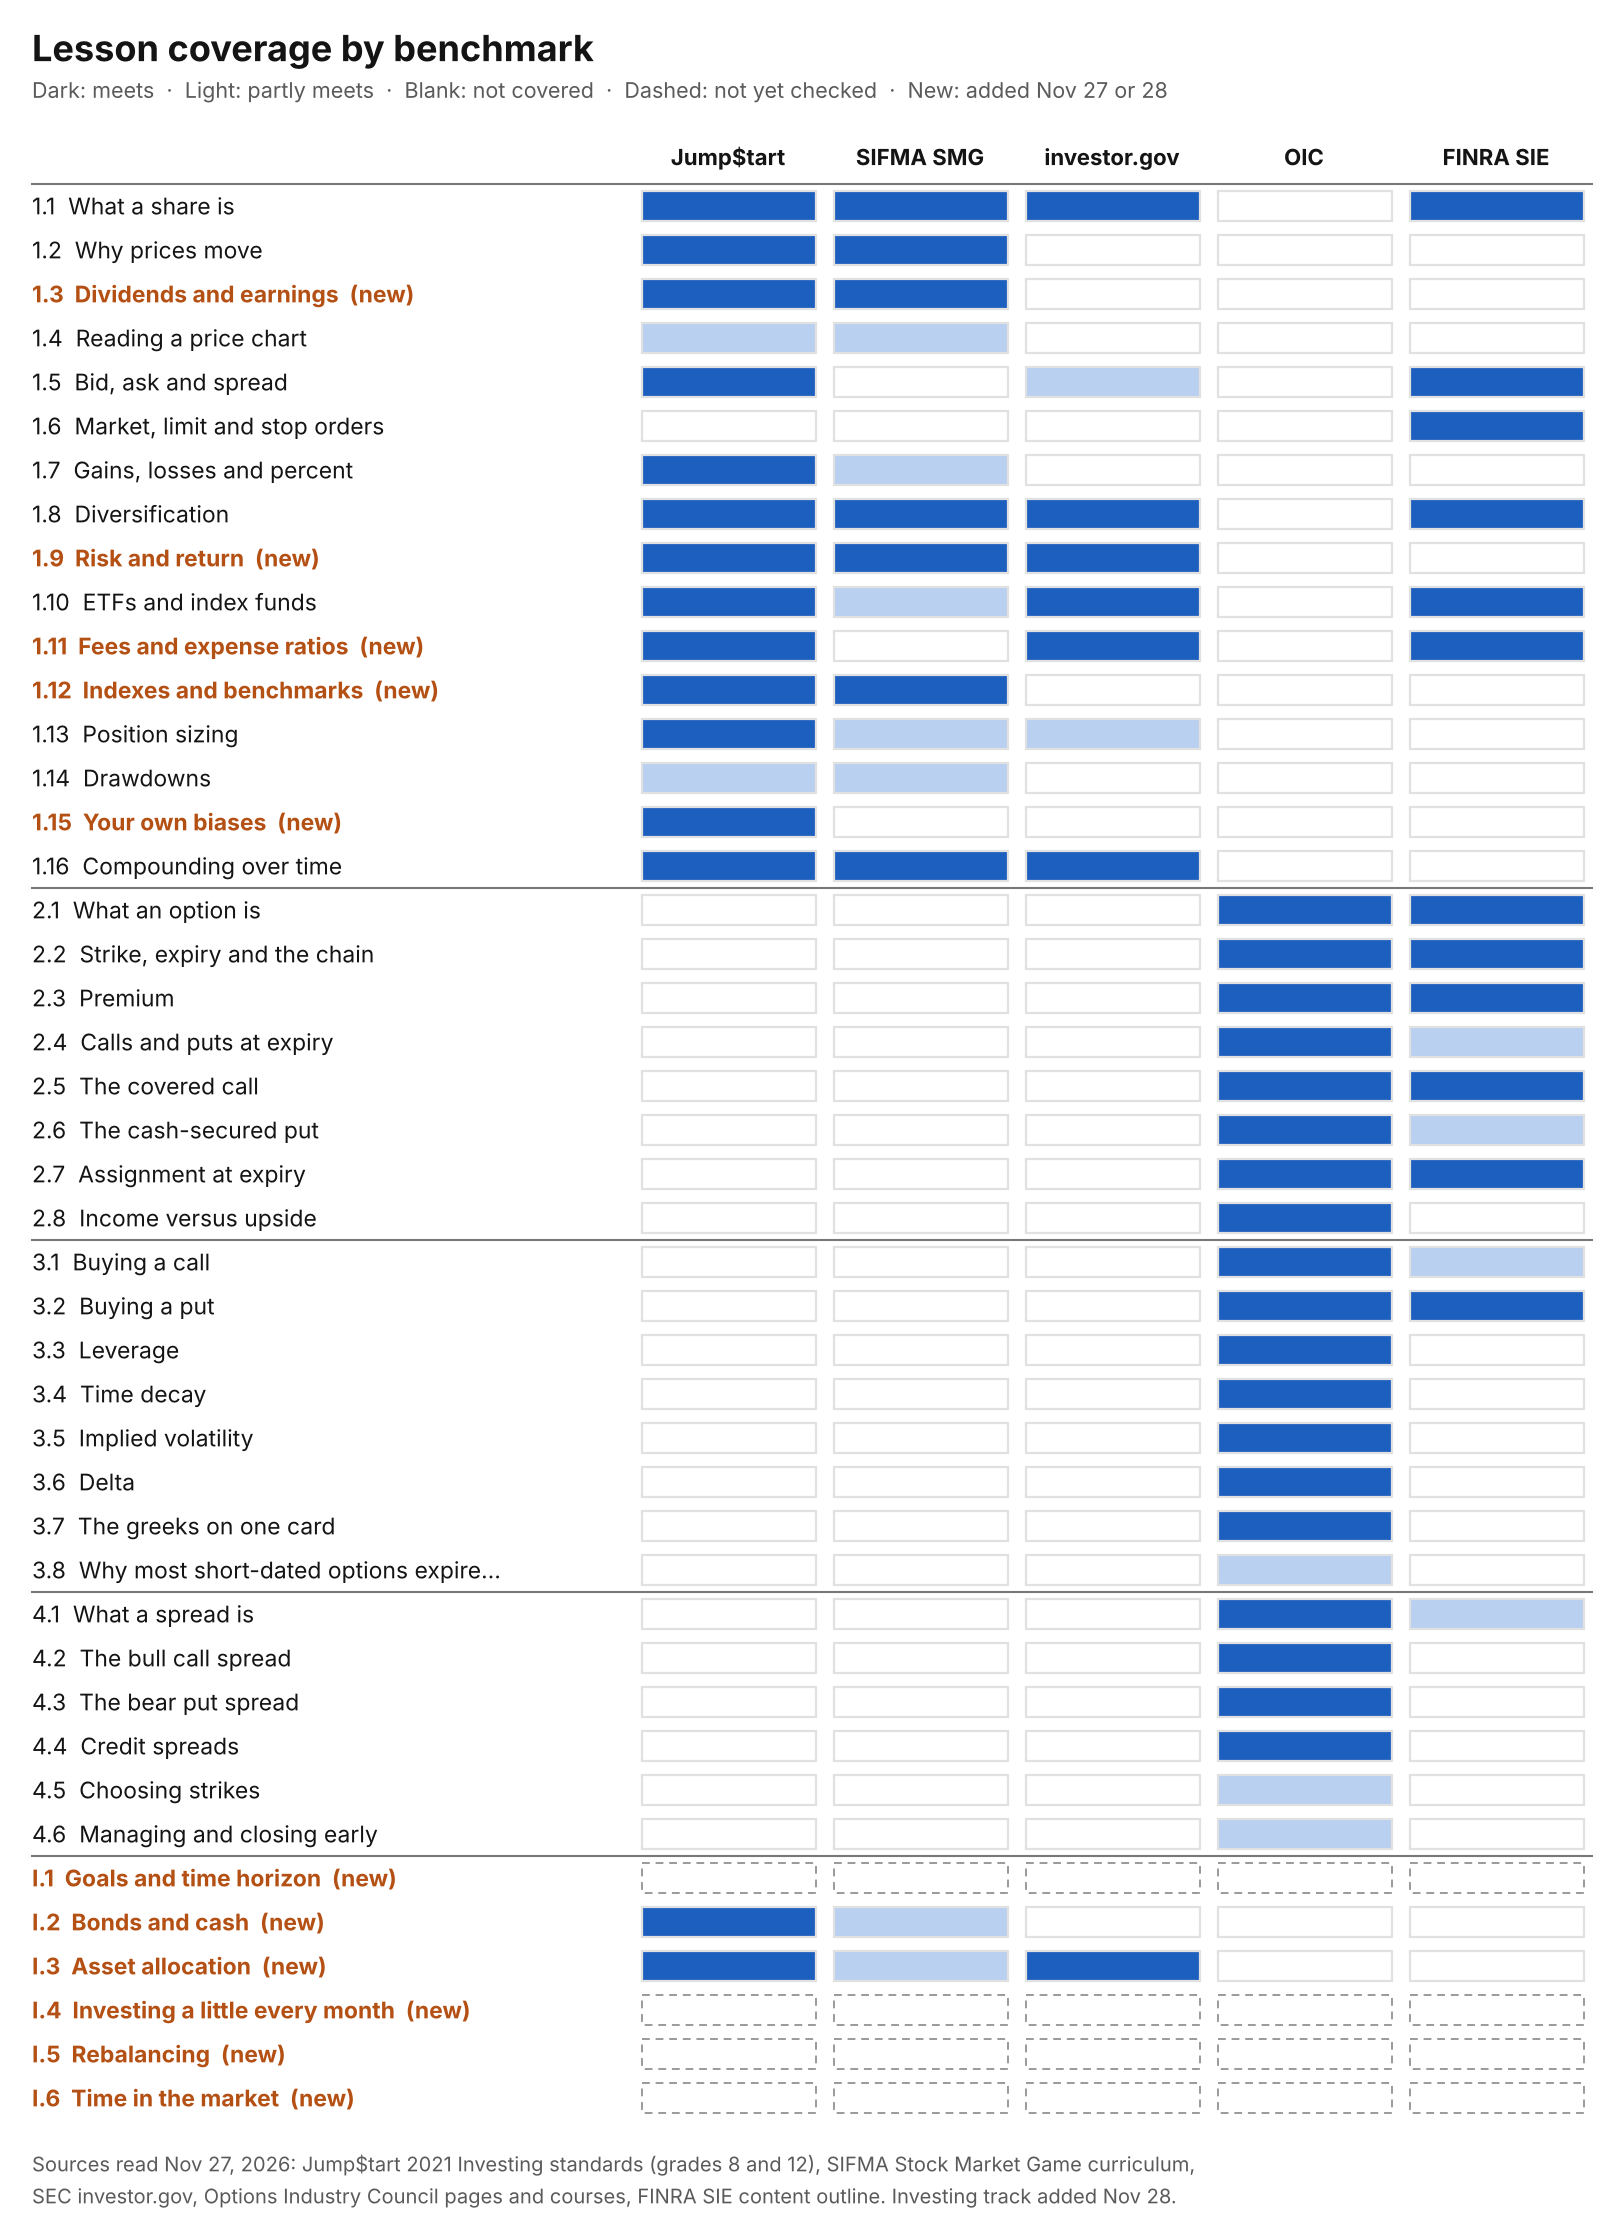
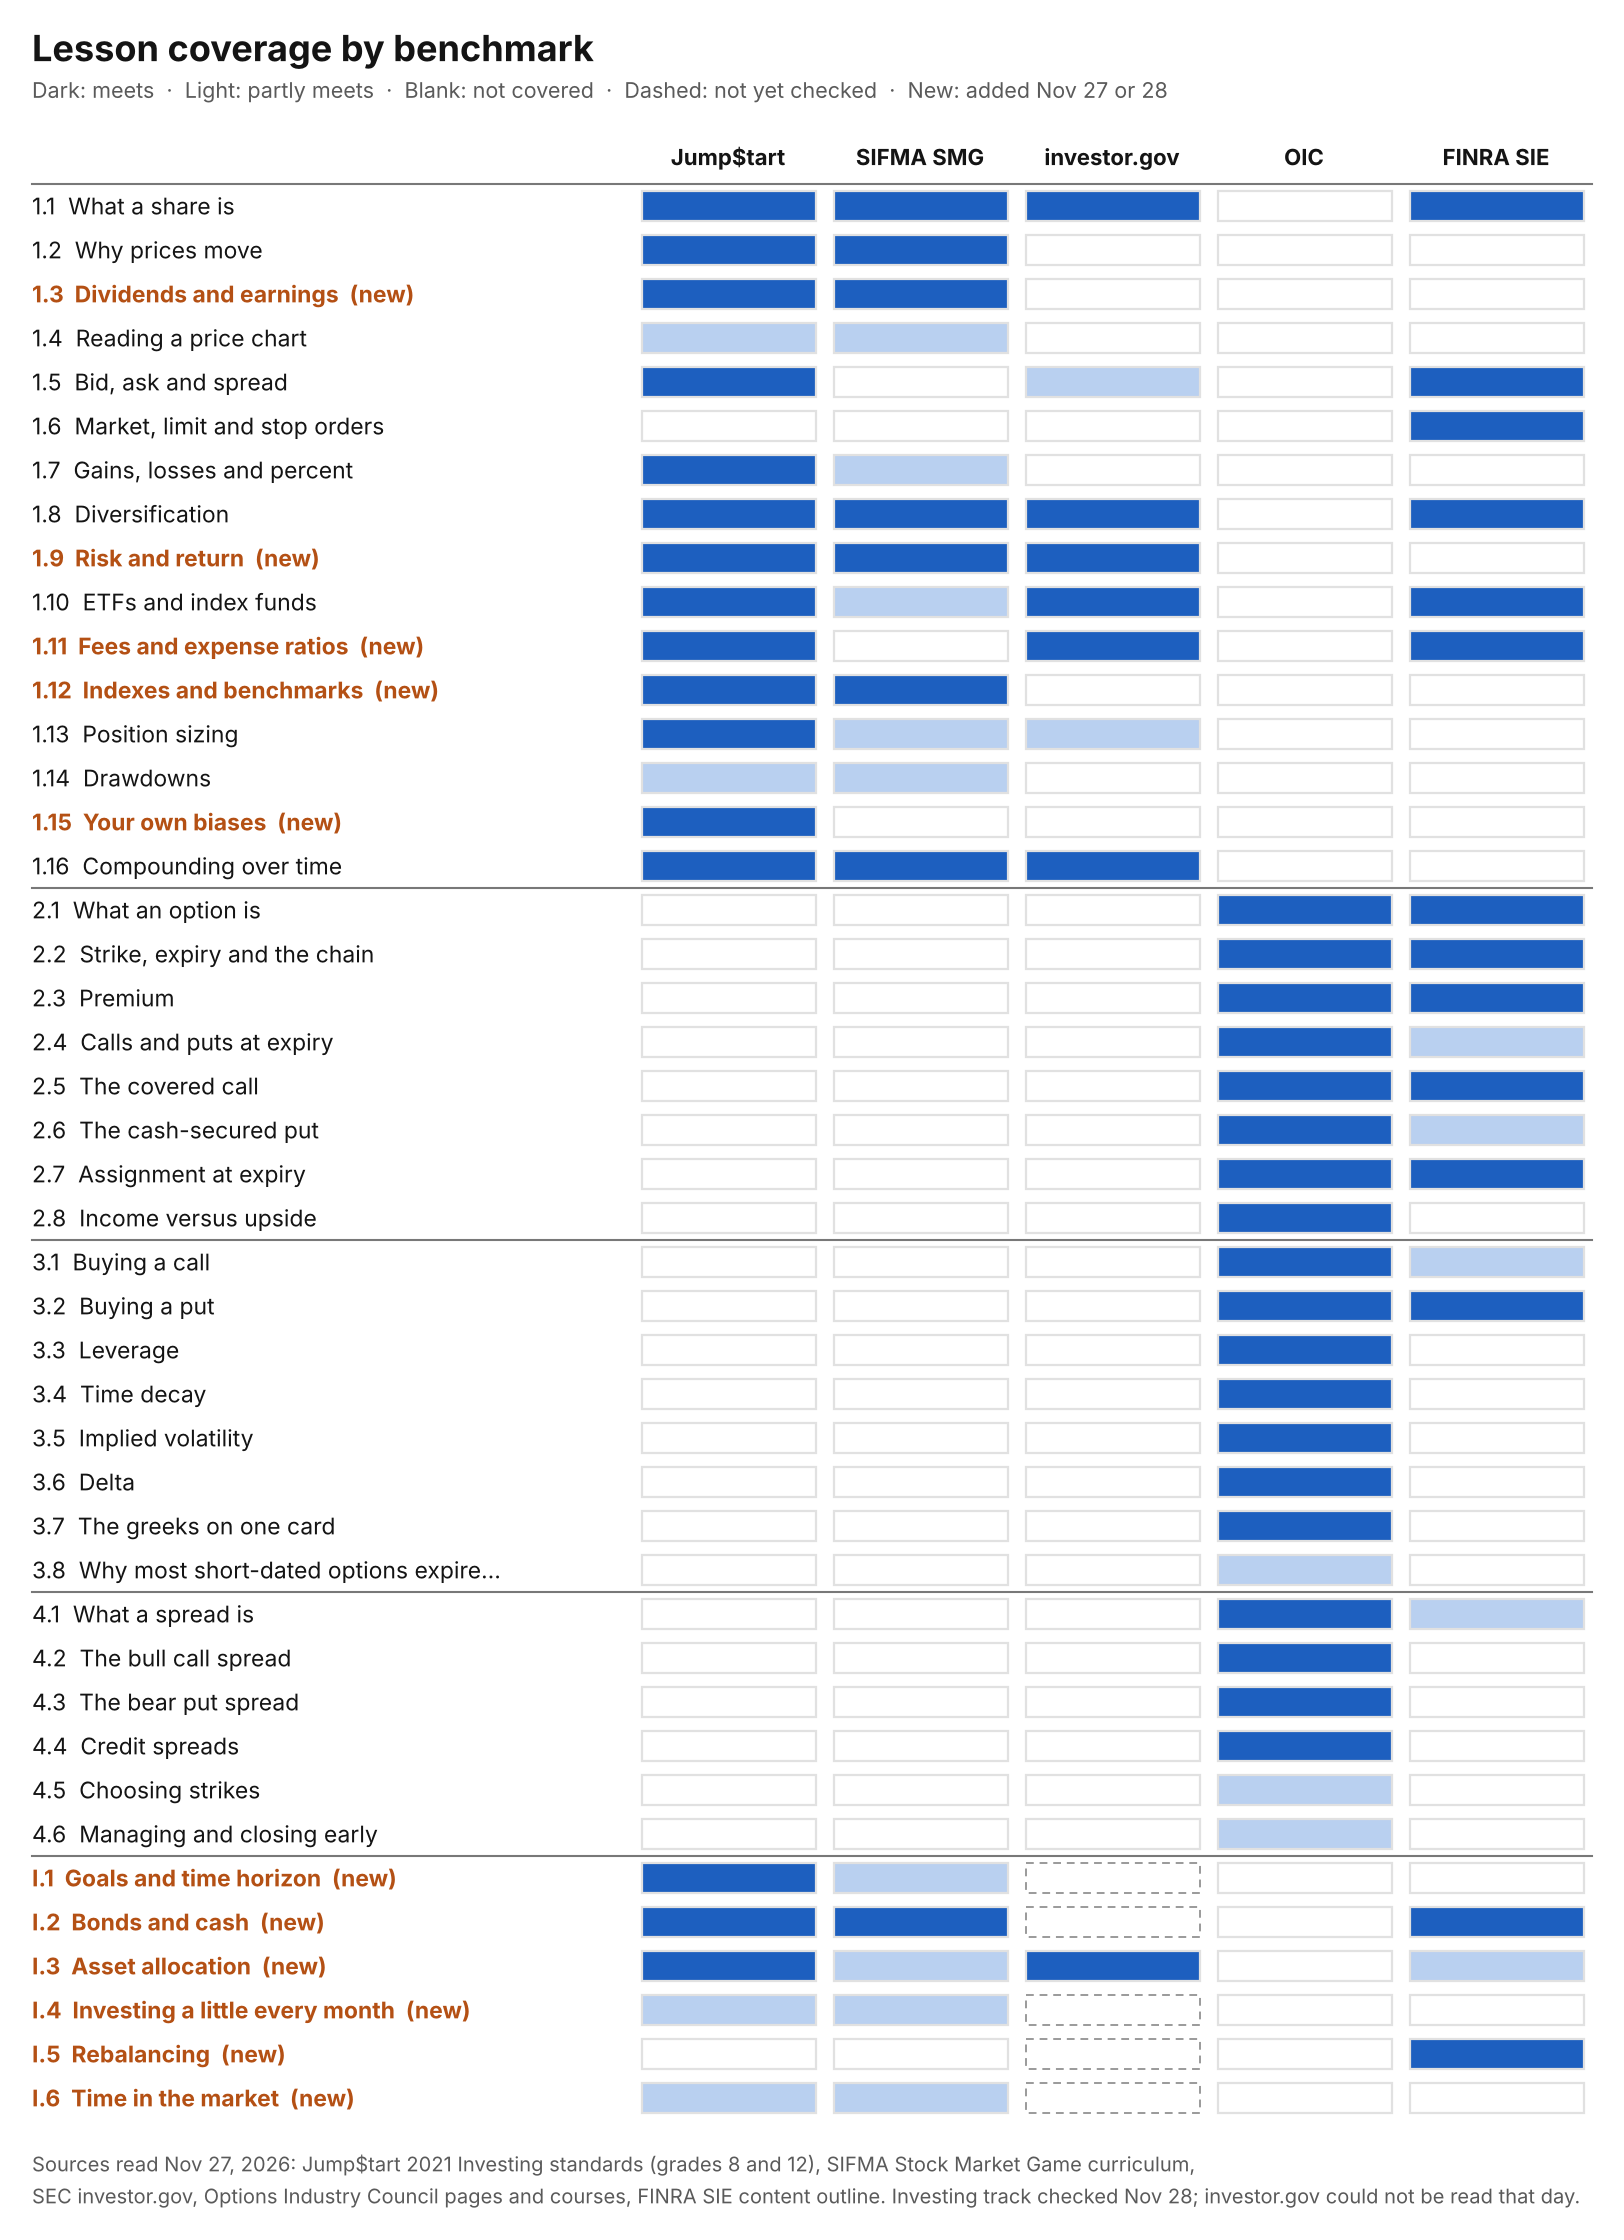
Check the investing lessons against the benchmarks
Maps investing-track lessons I.1 to I.6 to the Jump$tart 2021
standards, the Stock Market Game 32-week map and the FINRA SIE outline,
all read on Nov 28, and redraws the coverage map from the table.

investor.gov refused automated access, so its cells for five of the six
lessons are marked "not checked" and drawn dashed rather than guessed.

Claude-Session: https://claude.ai/code/session_01K3ed7J8p5sLy8Ri2g9YLFd

Changed region(s): [[0.4002, 0.8125, 0.6466, 0.9688], [0.8621, 0.8438, 0.9852, 0.9375], [0.6466, 0.9688, 0.7389, 1.0]]

diff --git a/docs/images/src/coverage_map.py b/docs/images/src/coverage_map.py
@@ -1,7 +1,7 @@
 """Draws docs/images/lessons/coverage-map.png from the "Coverage by lesson" table in docs/lesson-plan.md.
 
 Run: python3 docs/images/src/coverage_map.py   (needs matplotlib)
-A benchmark segment ending in "(partly)" is drawn light; "Not yet checked" rows are drawn dashed.
+A benchmark segment ending in "(partly)" is drawn light, and one ending in "(not checked)" is drawn dashed.
 """
 import os, re
 import matplotlib
@@ -31,7 +31,8 @@ def rows():
             for seg in met.split(" · "):
                 for b in BENCH:
                     if seg.startswith(b):
-                        cells[b] = "partly" if seg.rstrip().endswith("(partly)") else "meets"
+                        end = seg.rstrip()
+                        cells[b] = "unchecked" if end.endswith("(not checked)") else "partly" if end.endswith("(partly)") else "meets"
         out.append((num, title, cells, num in new))
     return out
 
@@ -60,7 +61,7 @@ def main():
         ax.text(32, y + row_h / 2, label, fontsize=16.5, va="center",
                 color=NEW if is_new else INK, fontweight="bold" if is_new else "normal")
         for x, b in zip(col_x, BENCH):
-            if cells is None:
+            if cells is None or cells.get(b) == "unchecked":
                 ax.add_patch(Rectangle((x + 2, y + 7), 174, 30, facecolor="white", edgecolor="#9a9a9a", lw=1.4, ls=(0, (4, 3))))
             else:
                 state = cells.get(b)
@@ -69,7 +70,7 @@ def main():
     yb = top + row_h * len(R) + 44
     ax.text(32, yb, "Sources read Nov 27, 2026: Jump$tart 2021 Investing standards (grades 8 and 12), SIFMA Stock Market Game curriculum,",
             fontsize=14.5, color=MUTED, va="center")
-    ax.text(32, yb + 32, "SEC investor.gov, Options Industry Council pages and courses, FINRA SIE content outline. Investing track added Nov 28.",
+    ax.text(32, yb + 32, "SEC investor.gov, Options Industry Council pages and courses, FINRA SIE content outline. Investing track checked Nov 28; investor.gov could not be read that day.",
             fontsize=14.5, color=MUTED, va="center")
     fig.savefig(OUT, dpi=100, facecolor="white"); plt.close(fig)
     print("wrote", os.path.normpath(OUT), len(R), "rows")

diff --git a/docs/lesson-plan.md b/docs/lesson-plan.md
@@ -633,14 +633,14 @@ Approved by Prafull on Nov 27, 2026 and applied: five new Level 1 lessons (1.3, 
 | 4.4 | Credit spreads | OIC Bull Put Spread; Bear Call Spread |
 | 4.5 | Choosing strikes | OIC Strategy pages (not confirmed) (partly) |
 | 4.6 | Managing and closing early | OIC Not confirmed in pages read (partly) |
-| I.1 | Goals and time horizon | Not yet checked |
-| I.2 | Bonds and cash | Jump$tart 8-3 · SIFMA SMG S8 (partly) |
-| I.3 | Asset allocation | Jump$tart 12-6 · SIFMA SMG S8 (partly) · investor.gov Asset allocation and diversification |
-| I.4 | Investing a little every month | Not yet checked |
-| I.5 | Rebalancing | Not yet checked |
-| I.6 | Time in the market | Not yet checked |
+| I.1 | Goals and time horizon | Jump$tart 12-6; 12-6a · SIFMA SMG Life Goals video; holding periods (partly) · investor.gov (not checked) |
+| I.2 | Bonds and cash | Jump$tart 8-3; 12-5d · SIFMA SMG What Is a Bond? · investor.gov (not checked) · FINRA SIE 2.1.2 Debt instruments: price and interest rate |
+| I.3 | Asset allocation | Jump$tart 12-6; 12-6a; 12-6c · SIFMA SMG What is Diversification? (partly) · investor.gov Asset allocation and diversification · FINRA SIE 2.2 Mitigation: diversification (partly) |
+| I.4 | Investing a little every month | Jump$tart 8-7c; 12-10b (partly) · SIFMA SMG How Does Money Grow Over Time? (partly) · investor.gov (not checked) |
+| I.5 | Rebalancing | investor.gov (not checked) · FINRA SIE 2.2 Mitigation: portfolio rebalancing |
+| I.6 | Time in the market | Jump$tart 8-7d; 12-9 (partly) · SIFMA SMG Buy, Sell, or Hold?; holding periods (partly) · investor.gov (not checked) |
 
-The investing-track rows were added on Nov 28, 2026. I.2 and I.3 use the codes the Nov 27 check had already read for bonds and asset allocation. The benchmark sites could not be opened on Nov 28, so I.1 and I.4 to I.6 are marked "Not yet checked" rather than guessed, and the five new reality checks are not in the map.
+The investing-track rows were added on Nov 28, 2026, from the Jump$tart standards, the Stock Market Game 32-week map and the FINRA SIE outline, all read that day. investor.gov refused automated access that day, so its cells are marked "not checked" rather than guessed, except I.3, which uses the page the Nov 27 check had read. No benchmark teaches cost averaging or missing the best days by name, so I.4 and I.6 meet theirs only partly, and only the SIE outline names rebalancing. The five new reality checks are not in the map; the taxes one matches Jump$tart 12-8a.
 
 ### Gaps the check found, and how each was closed
 
